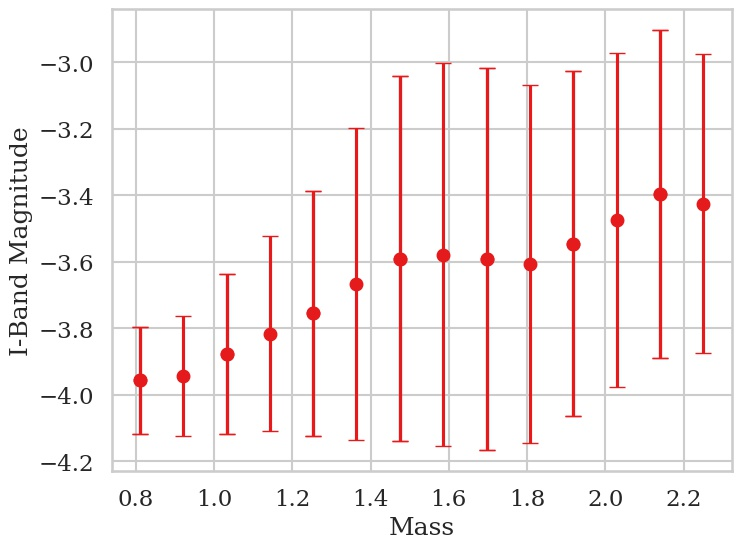
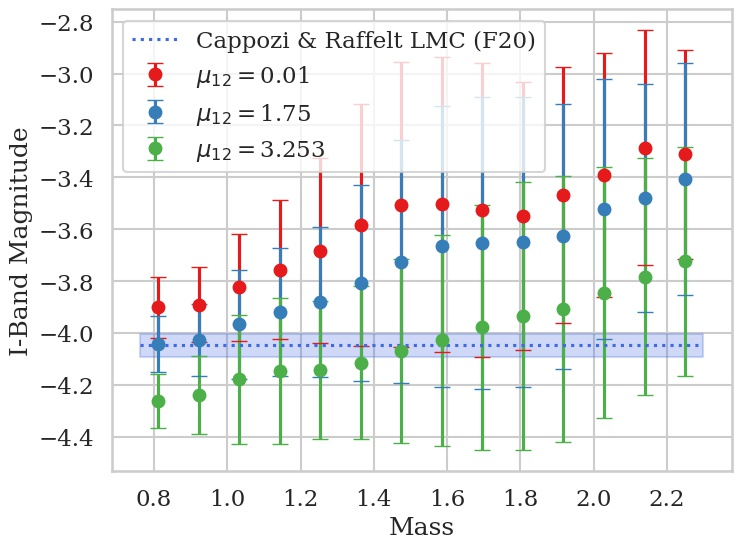
check parameter space

diff --git a/analysis/output_analysis/genPlots.py b/analysis/output_analysis/genPlots.py
@@ -104,40 +104,66 @@ def plot4d(mags):
     fig.savefig('allParams.jpeg', transparent=False,
                 bbox_inches='tight')
 
-def Iband_vs_binned(mags):
+def Iband_vs_binned(df):
     '''
     Plots M_I vs. binned version of other input params
     '''
-    mags = mags[mags.flag==0]
-    #mags = mags[mags.index > 0]
+    df = df[df.flag==0]
     
     labels = ['Mass', 'Y', 'Z']
     keys = ['mass', 'y', 'z']
-    tols = [0.05, 0.01, 1e-5]
-    
+    tols = [0.05, 0.01, 1e-4]
+    allMus = np.sort(df.mu.unique())
+    mus = [allMus[1], allMus[26], allMus[29]]
+
     for key, label, tol in zip(keys, labels, tols):
 
-        group = []
-        std = []
-        for i in range(0, len(mags[key].unique()), 2):
-            m = mags[key].unique()[i]
-            
-            where = np.where(abs(mags[key] - m) <= tol)[0]
-            good = mags.iloc[where]
-            group.append(np.mean(good))
-            std.append(np.std(good))
-            
-        group = pd.concat(group, axis=1).T
-        std = pd.concat(std, axis=1).T
-        
         fig, ax = plt.subplots(1, figsize=(8,6))
-        ax.errorbar(group[key], group.M_I, yerr=std.M_I, fmt='o', capsize=6)
+    
+        for mu in mus:
+            mags = df[df.mu == mu]
+            #print(mags)
+
+            '''
+            group = []
+            std = []
+            for i in range(0, len(mags[key].unique()), 2):
+                m = mags[key].unique()[i]
+            
+                where = np.where(abs(mags[key] - m) <= tol)[0]
+                good = mags.iloc[where]
+                group.append(np.mean(good))
+                std.append(np.std(good))
+            
+            #print(type(group[0]))
+            group = pd.concat(group, axis=1).T
+            std = pd.concat(std, axis=1).T
+            '''
+            group = mags.groupby([key]).mean().reset_index()
+            std = mags.groupby([key]).std().reset_index()
+            
+            ax.errorbar(group[key], group.M_I, yerr=std.M_I, fmt='o', capsize=6, label=r'$\mu_{12}=$'+str(round(mu, 3)))
+
+        # Plot observational values
+        x = np.linspace(min(mags[key])-tol, max(mags[key])+tol)
+        a = 0.25
+
+        #ax.plot(x, -3.96*np.ones(len(x)), linestyle='--', color='k', label=r'Cappozi & Raffelt $\omega$ Centauri')
+        #ax.fill_between(x, -3.96-0.05, -3.96+0.05, color='k', alpha=a)
+        #ax.plot(x, -4.027*np.ones(len(x)), linestyle='--', color='orange', label=r'Cappozi & Raffelt NGC4258')
+        #ax.fill_between(x, -4.027-0.055, -4.027+0.055, color='orange', alpha=a)
+        ax.plot(x, -4.047*np.ones(len(x)), linestyle=':', color='royalblue', label=r'Cappozi & Raffelt LMC (F20)')
+        ax.fill_between(x, -4.047-0.045, -4.047+0.045, color='royalblue', alpha=a)
+        #ax.plot(x, -3.958*np.ones(len(x)), linestyle=':', color='green', label=r'Cappozi & Raffelt LMC (Y19)')
+        #ax.fill_between(x, -3.958-0.046, -3.958+0.046, color='green', alpha=a)
+        
         ax.set_xlabel(label)
         ax.set_ylabel('I-Band Magnitude')
+        ax.legend()
         if key == 'z':
             ax.set_xscale('log')
         fig.savefig(f'M_I_vs_binned_{key}.jpeg', transparent=False,
-                bbox_inches='tight')
+                    bbox_inches='tight')
     
 def main():
 
